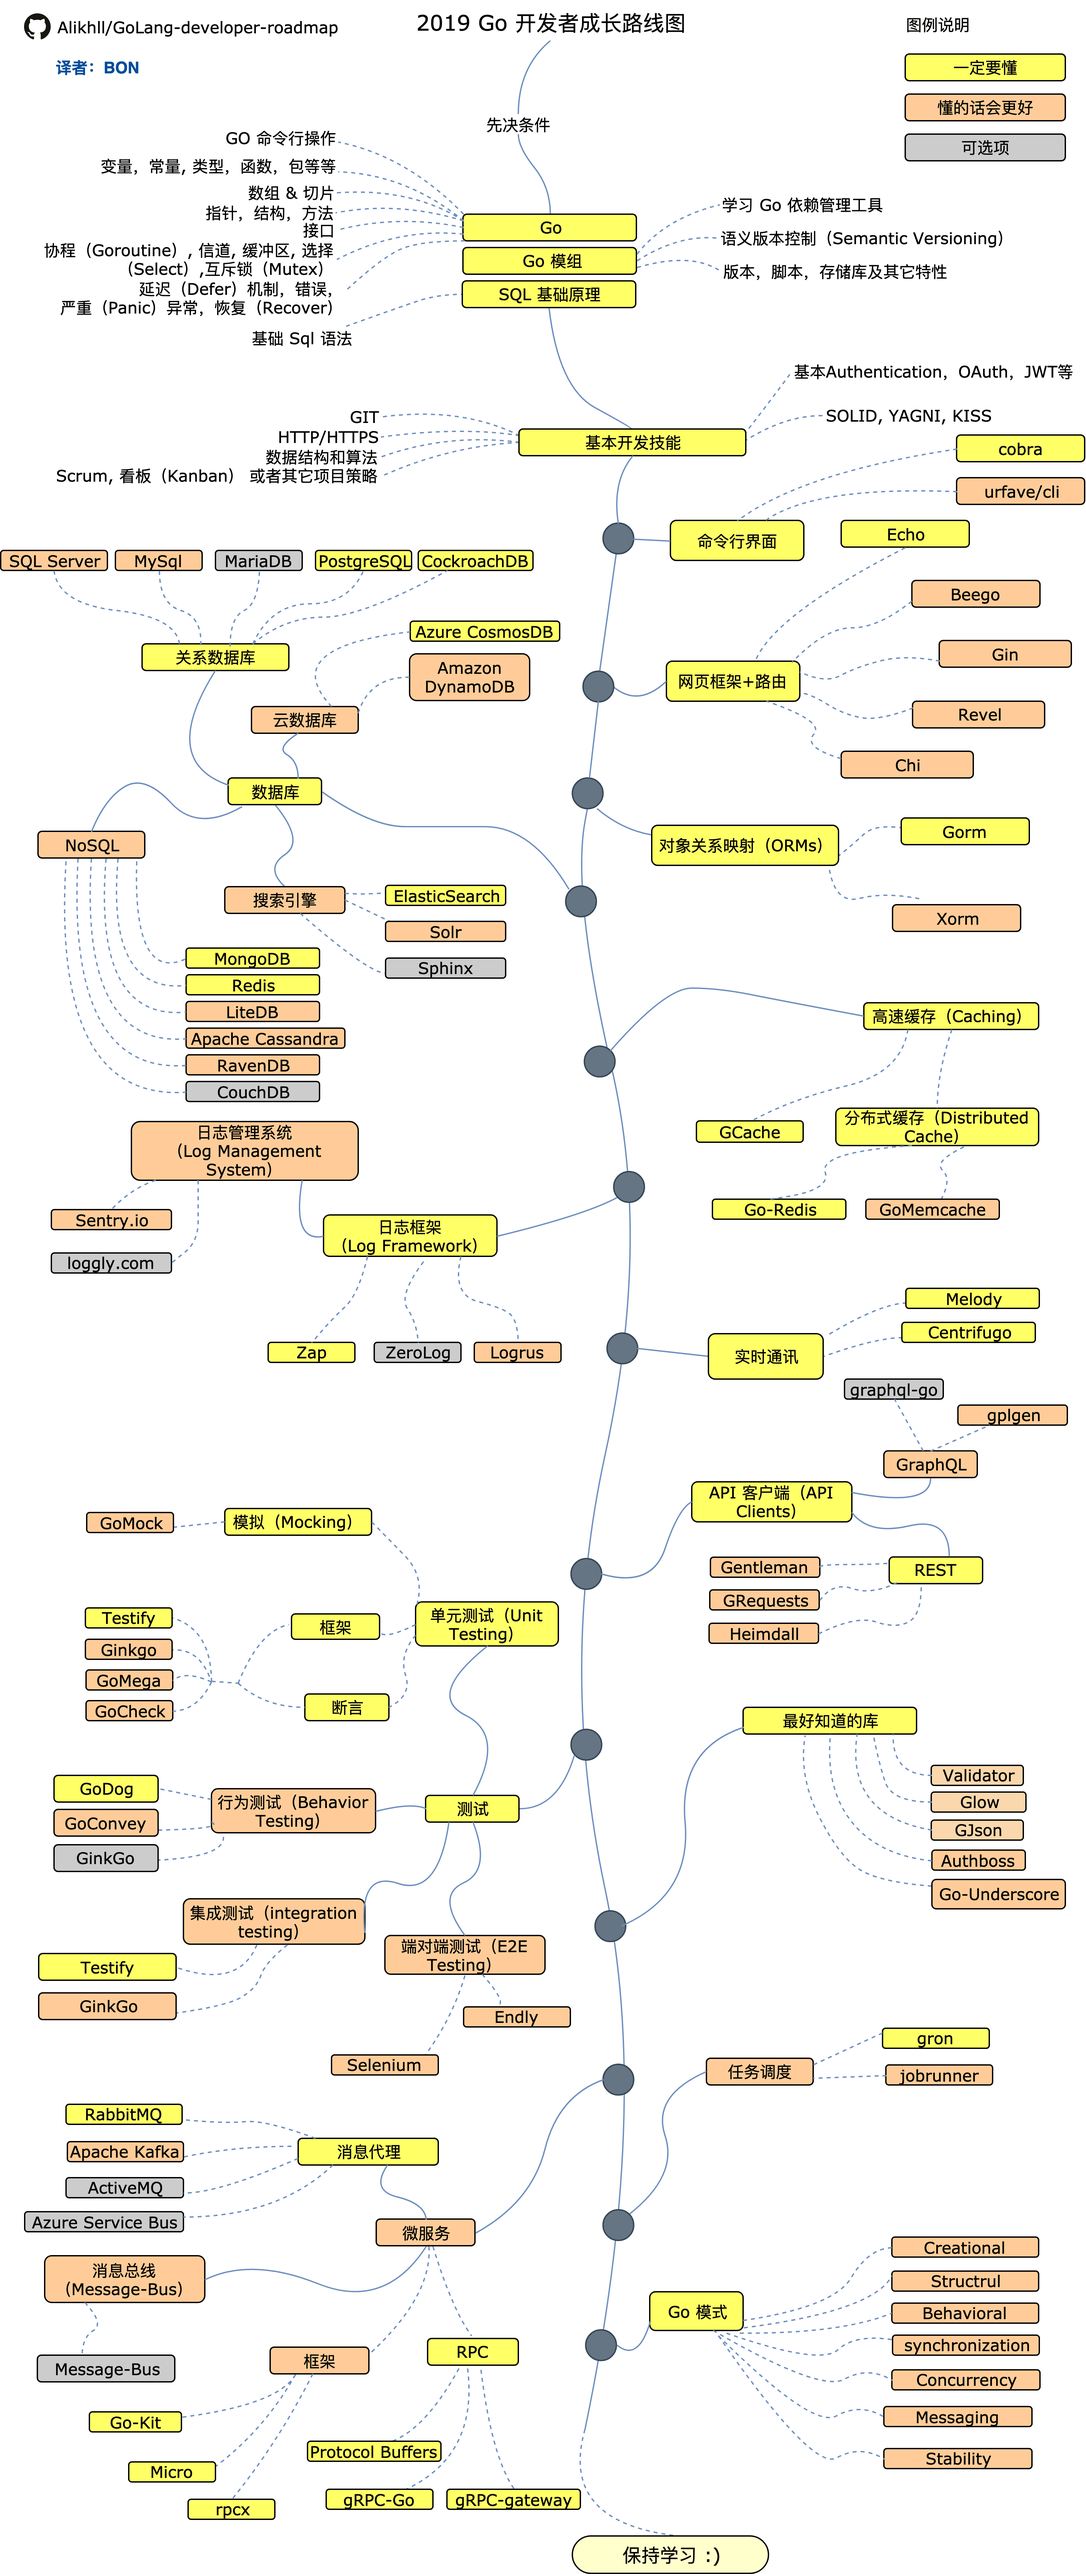
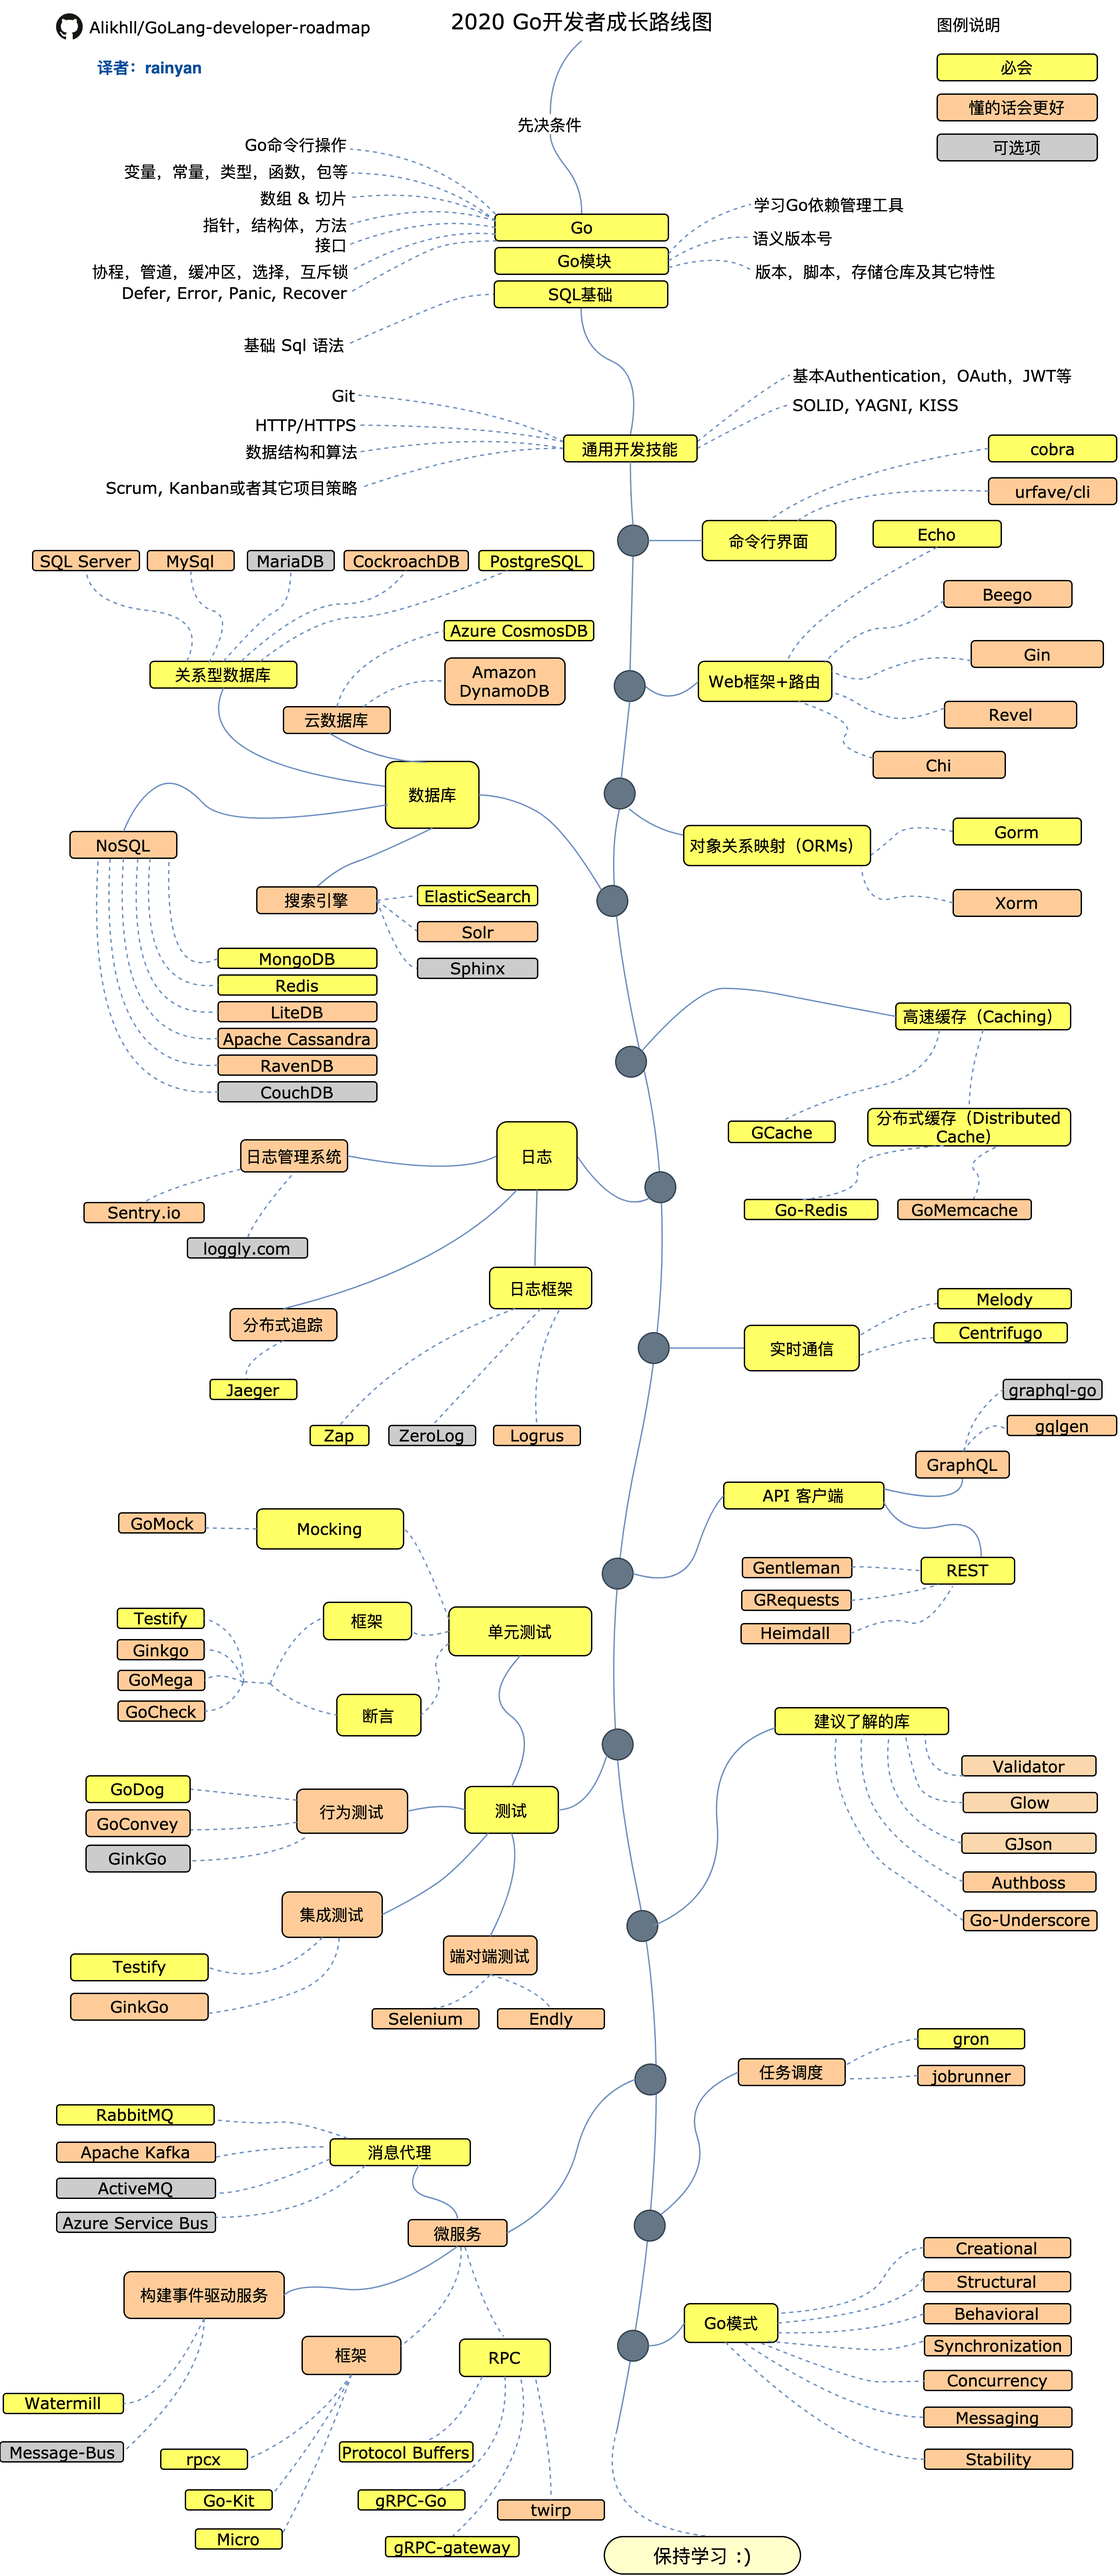
Update Chinese version to the latest.

diff --git a/i18n/zh-CN/ReadMe-zh-CN.md b/i18n/zh-CN/ReadMe-zh-CN.md
@@ -1,21 +1,21 @@
 # Go 开发者路线图
 
-> 在 2019 成为一名 [Go](https://golang.org/) 开发者的路线图：
+> 在 2020年 成为一名 [Go](https://golang.org/) 开发者的路线图：
 
 ------
 
-在下边有一个图表，如果你想要成为一名 Go 的开发者的话，里面记录了一条成长路线以及一些你也许可以用得上的库。这是我为每一个想要问我：”我该怎么才能成为 Go 的开发者？“的人而准备的。
+在下边有一个路线图，如果你想要成为一名Go语言的开发者的话，你可以沿着这张图里面的路径去学习，里面记录了一些你可能也想学习的库。当你问到：”我想成为一名Go语言开发者，接下来我要学些什么？“，我做的这个路线图就是一个很好的建议。
 
 [English](../../ReadMe.md)
 [日本語版](./i18n/ja-JP/ReadMe-ja-JP.md)
 
 ## **免责声明**
 
-> 本路线图的目的是让您了解大致的学习内容。路线图会在您对接下来要学习什么感到困惑的时候给您适当的指导，而不是让您选择时髦的东西。你应该逐渐了解为什么一个工具比另一个工具更适合某些情况。记住，时髦的东西不一定最适合某个情况
+> 本路线图的目的是让你看到学习Go语言的一个全景图。在你对接下来要学习什么感到困惑的时候，这个路线图会给你一些指导，而不是鼓励你去选择当下流行的东西。你需要逐渐了解为什么一个工具可能会比另一个工具更适合某些场景。但请记住，流行的东西并不意味着一定适合你的工作。
 
 ## 给我一个 Star！ :star:
 
-如果您喜欢或者打算使用这个项目来学习或者来开始你的设计，给我一个 Star，谢谢！
+如果您喜欢或者正在使用这个项目来学习或者开始你的计划，请给我一个 Star，谢谢！
 
 ## 路线图
 
@@ -30,9 +30,9 @@
 
 2. 通用开发技能
 
-   - 学习 GIT，在 GitHub 上建立一些仓库，与其它人分享你的代码
+   - 学习GIT，在GitHub上建立一些仓库，与其它人分享你的代码
    - 了解 HTTP(S) 协议，request 方法（GET, POST, PUT, PATCH, DELETE, OPTIONS）
-   - 不要害怕使用 Google，[Google 搜索的力量](http://www.powersearchingwithgoogle.com/)
+   - 不要害怕使用Google，[Google 搜索的力量](http://www.powersearchingwithgoogle.com/)
    - 看一些和数据结构以及算法有关的书籍
    - 学习关于认证的基础实现
    - 面向对象原则等等
@@ -52,11 +52,11 @@
 5. 数据库
 
    1. 关系型
-      1. [SQL Server](https://www.microsoft.com/en-us/sql-server/sql-server-2017)
-      2. [PostgreSQL](https://www.postgresql.org/)
-      3. [MariaDB](https://mariadb.org/)
-      4. [MySQL](https://www.mysql.com/)
-      5. [CockroachDB](https://www.cockroachlabs.com/)
+      - [SQL Server](https://www.microsoft.com/en-us/sql-server/sql-server-2017)
+      - [PostgreSQL](https://www.postgresql.org/)
+      - [MariaDB](https://mariadb.org/)
+      - [MySQL](https://www.mysql.com/)
+      - [CockroachDB](https://www.cockroachlabs.com/)
    2. 云数据库
       - [CosmosDB](https://docs.microsoft.com/en-us/azure/cosmos-db)
       - [DynamoDB](https://aws.amazon.com/dynamodb/)
@@ -68,7 +68,6 @@
       - [MongoDB](https://www.mongodb.com/)
       - [Redis](https://redis.io/)
       - [Apache Cassandra](http://cassandra.apache.org/)
-      - [LiteDB](https://github.com/mbdavid/LiteDB)
       - [RavenDB](https://github.com/ravendb/ravendb)
       - [CouchDB](http://couchdb.apache.org/)
 
@@ -81,8 +80,8 @@
 
    1. [GCache](https://github.com/bluele/gcache)
    2. 分布式缓存
-      1. [Go-Redis](https://github.com/go-redis/redis)
-      2. [GoMemcached](https://github.com/bradfitz/gomemcache)
+      - [Go-Redis](https://github.com/go-redis/redis)
+      - [GoMemcached](https://github.com/bradfitz/gomemcache)
 
 8. 日志
 
@@ -93,8 +92,10 @@
    2. 日志管理系统
       - [Sentry.io](http://sentry.io)
       - [Loggly.com](https://loggly.com)
+   3. 分布式追踪
+      - [Jaeger](https://www.jaegertracing.io/)
 
-9. 实时通讯
+9. 实时通信
    1. [Socket.IO](https://socket.io/)
 
 10. API 客户端
@@ -117,7 +118,7 @@
 
 12. 测试
 
-    1. 单元，行为，集成测试
+    1. 单元、行为和集成测试
        1. [GoMock](https://github.com/golang/mock)
        2. [Testify](https://github.com/stretchr/testify)
        3. [GinkGo](https://github.com/onsi/ginkgo)
@@ -141,7 +142,8 @@
        - [Apache Kafka](https://kafka.apache.org/)
        - [ActiveMQ](https://github.com/apache/activemq)
        - [Azure Service Bus](https://docs.microsoft.com/en-us/azure/service-bus-messaging/service-bus-messaging-overview)
-    2. 消息总线
+    2. 构建事件驱动型服务
+       - [Watermill](https://github.com/ThreeDotsLabs/watermill)
        - [Message-Bus](https://github.com/vardius/message-bus)
     3. 框架
          - [GoKit](https://github.com/go-kit/kit)
@@ -151,12 +153,13 @@
          - [Protocol Buffers](https://github.com/protocolbuffers/protobuf)
          - [gRPC-Go](https://github.com/grpc/grpc-go)
          - [gRPC-Gateway](https://github.com/grpc-ecosystem/grpc-gateway)
+         - [Twirp](https://github.com/twitchtv/twirp)
 
 15. [Go-模式](https://github.com/tmrts/go-patterns)
 
 ## 最后
 
-如果您认为该路线图可以改进，请务必提交PR或者发Issue。当然，我也会持续地改进它，所以你也许想要给这个仓库来个 Star 从而再次访问。
+如果您认为该路线图有待改进，请务必提交PR或者发Issue。当然，我也会持续地改进它，所以你可以给这个仓库点个 Star 以便于再次访问。
 
 想法来源于 : [ASP.NET Core Developer Roadmap](https://github.com/MoienTajik/AspNetCore-Developer-Roadmap)
 
